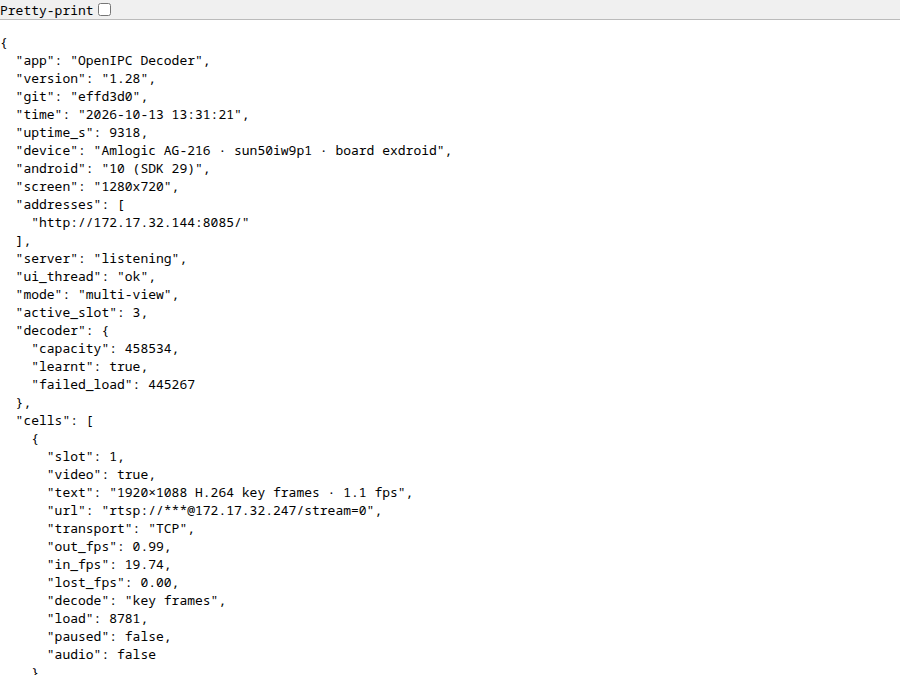
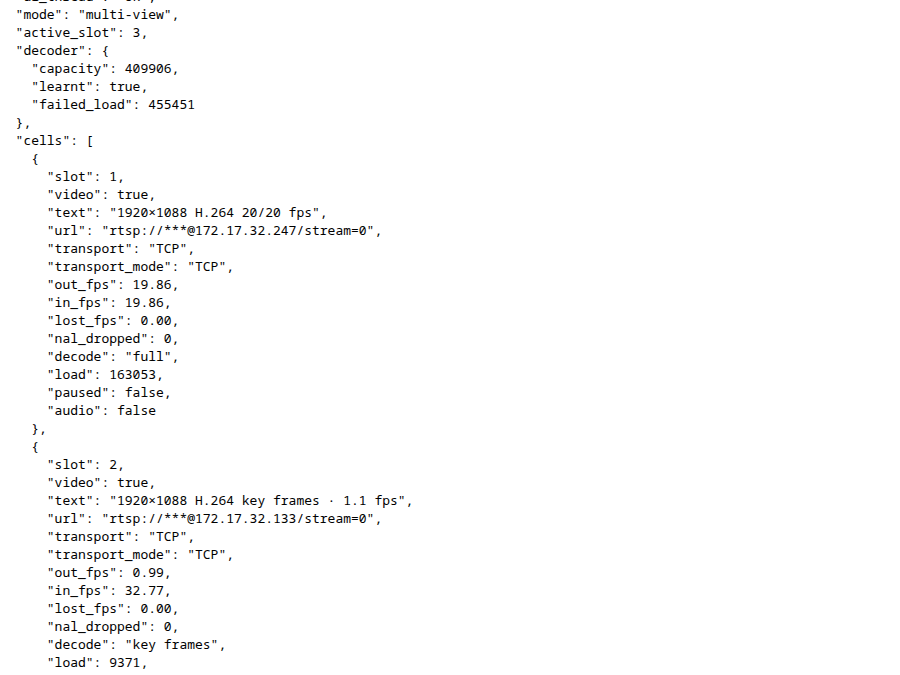
docs: fresh screenshots (single view with the transport line, debug page with TCP (auto) and UDP push, JSON with the new fields); README features, limitations and classes; LABORATORY: sources, UDP findings, slot filling, log lines, #76 pitfalls

diff --git a/README.ru.md b/README.ru.md
@@ -30,9 +30,9 @@
 
 - **Видео:** воспроизведение RTSP, аппаратное декодирование H.264/H.265 через MediaCodec, MJPEG по RTSP (RTP/JPEG, в одиночном режиме), автоматическое восстановление декодера, картинка вписывается в экран любой формы
 - **Звук:** AAC (RFC 3640 `mpeg4-generic`, ADTS, MP4A-LATM), Opus, G.711 μ-law/A-law, L16 PCM (моно и стерео); в мультивиде — звук выбранной ячейки
-- **Режимы:** одна камера или мультивид (Quad) — до 8 камер на одном экране, сеткой 2×2 или 3×3
+- **Режимы:** одна камера или мультивид (Quad) — до 8 камер и ячейка U (камера, которая сама шлёт RTP) сеткой 2×2 или 3×3; адаптивное декодирование (все кадры или только ключевые для каждой ячейки, предел определяется на устройстве); слайды (S): все камеры только на ключевых кадрах
 - **Управление:** масштаб двумя пальцами, перемещение, сброс двойным касанием, пульт Android TV (Leanback)
-- **Сеть:** RTSP поверх TCP или UDP (Auto переходит на TCP), RTSP multicast, приём RTP, который камера сама шлёт по UDP (unicast или multicast), авторизация Basic и Digest, RTSP keepalive, автоматическое переподключение с растущей задержкой, индикатор качества связи
+- **Сеть:** RTSP поверх TCP или UDP (Auto, режим по умолчанию, переходит на TCP, если UDP отклонён, видео не приходит или ключевые кадры теряются), фактический транспорт показывается при подключении, RTSP multicast, приём RTP, который камера сама шлёт по UDP (unicast или multicast), авторизация Basic и Digest, RTSP keepalive, автоматическое переподключение с растущей задержкой, индикатор качества связи
 - **WebUI:** встроенный браузер для веб-интерфейса камеры
 - **Прочее:** 8 слотов для камер, адреса хранятся в зашифрованном виде, скриншот долгим нажатием, приём ссылок из других приложений
 
@@ -105,6 +105,10 @@ adb shell am start -a android.intent.action.SEND -t text/plain \
 
 Фактический транспорт показывается при запуске потока в одиночном режиме (`Connected • UDP • H.265 …`), на отладочной странице и в `/stats.json` (`transport`; настройка слота — `transport_mode`). После отката там будет, например, `TCP (auto)`.
 
+<p align="center">
+  <img src="screenshots/single_status.jpg" alt="Одиночный режим сразу после подключения: транспорт, кодеки и битрейт" width="640">
+</p>
+
 ### Слоты UDP (Majestic outgoing)
 
 Слот может принимать и RTP, который камера отправляет сама, без RTSP. Для этого вместо `rtsp://` укажите адрес `udp://`:
@@ -152,6 +156,8 @@ outgoing:
 >
 > - **RTSP multicast требует Android 8.0+** и сервера, который его поддерживает; камеры OpenIPC его не поддерживают — [#69](https://github.com/OpenIPC/decoder/issues/69)
 > - **Не поддерживаются звук G.726 и MP4A-LATM с конфигурацией внутри потока (`cpresent=1`).** OpenIPC Majestic их не использует, а камеры с G.726 обычно умеют отдавать G.711 или AAC — [#14](https://github.com/OpenIPC/decoder/issues/14)
+> - **MJPEG воспроизводится только в одиночном режиме и декодируется программно**; аппаратное декодирование и мультивид — [#132](https://github.com/OpenIPC/decoder/issues/132)
+> - **Переключение между мультивидом и одиночным режимом может на несколько секунд заморозить картинку** на некоторых ТВ-приставках (замечено на AG-216) — [#76](https://github.com/OpenIPC/decoder/issues/76)
 > - **Логин и пароль передаются в открытом виде** по RTSP/HTTP без шифрования (Basic, если камера не запросила Digest); RTSPS не поддерживается и не планируется — [#16](https://github.com/OpenIPC/decoder/issues/16)
 >
 > Известные ошибки собраны отдельно, под [меткой `bug`](https://github.com/OpenIPC/decoder/issues?q=is%3Aissue+is%3Aopen+label%3Abug).
@@ -199,6 +205,8 @@ export KEY_PASS=your_key_password
 | `Transport`, `UdpReceiver`, `RtpReorder` | Согласование транспорта; приём по UDP и multicast с фильтром отправителя; восстановление порядка пакетов                                   |
 | `RtpListener`                            | Слоты `udp://`: RTP, который камера отправляет сама                                                                                        |
 | `NalAssembler`                           | Сборка NAL-блоков H.264/H.265 из RTP-пакетов, отбрасывание блоков, повреждённых потерями                                                   |
+| `JpegAssembler`                          | MJPEG: сборка целых JPEG-кадров из RTP/JPEG (RFC 2435)                                                                                     |
+| `DecodePlanner`                          | Мультивид: какие ячейки декодируют все кадры, а какие только ключевые, в пределах выученной ёмкости декодера                              |
 | `MediaCodecManager`, `DecoderRetry`      | Жизненный цикл аппаратного видеодекодера и восстановление после ошибок                                                                     |
 | `AudioManager`, `AudioConfig`            | Звук: преобразование G.711/L16, декодирование AAC/Opus, вывод через AudioTrack                                                             |
 | `QuadCell`                               | Одна ячейка мультивида: своя сессия, декодер и звук по выбору                                                                              |
@@ -206,7 +214,7 @@ export KEY_PASS=your_key_password
 | `CredentialStore`, `KeystoreCipher`      | Зашифрованное хранение адресов камер (Android Keystore)                                                                                    |
 | `FramePool`, `Frame`                     | Пул буферов, снижает нагрузку на сборщик мусора                                                                                            |
 | `App`, `Crash`                           | Обработчик необработанных исключений и экран отчёта о сбое                                                                                 |
-| `DebugServer`, `NetInfo`                 | Отладочная страница на порту 8085 (только локальная сеть), адреса устройства                                                               |
+| `DebugServer`, `NetInfo`, `Snapshots`    | Отладочная страница на порту 8085 (только локальная сеть), адреса устройства, снимки экрана                                                |
 
 Сеть, декодирование видео и звук работают в отдельных потоках, поэтому медленный декодер не блокирует сокет.
 

diff --git a/LABORATORY.md b/LABORATORY.md
@@ -126,7 +126,15 @@ Only for filling grid cells (Quad 2×2, 3×3) and screenshots; not used in strea
 | 7 | `.167` |
 | 8 | `.53` (XM, bottom right) |
 
-The ninth cell is the U cell (pushed UDP RTP, #87). `.165` is repaired and available as a spare filler for any slot.
+The ninth cell is the U cell (pushed UDP RTP, #87). Its source on the bench: `.165` pushes its main stream with Majestic `outgoing` to `udp://172.17.32.144:5600` (Aceline-1); `.165` is also a spare filler for any slot.
+
+### Other sources
+
+| What | Where | Notes |
+|---|---|---|
+| MJPEG over RTSP (#119) | `rtsp://<.133>/stream=2` | RTP/JPEG PT 26, type 0 (4:2:2), Q = 255 (tables in-band), 1280×720, 5 fps, ≈ 5 Mbit/s, plus Opus |
+| HTTP MJPEG (#121) | `http://<.133>/mjpeg` | `multipart/x-mixed-replace; boundary=boundarydonotcross`, Basic auth |
+| Pushed RTP | `.165` → Aceline-1 `:5600` | the U cell; check with `curl -u … http://172.17.32.165/api/v1/outgoing.json` (`state: live`) |
 
 ## What the servers support
 
@@ -144,6 +152,10 @@ Checked with raw RTSP `SETUP` requests (2026-10-12).
 No camera in the lab does RTSP multicast. To test #69 for real, run a multicast-capable RTSP server on the lab host (e.g. mediamtx relaying `.133`).
 
 Multicast from OpenIPC is only available as plain RTP via Majestic `outgoing` (`udp://<group>:<port>`), see #68.
+
+### RTP over UDP from the lab cameras
+
+Measured on the lab host (8 s of RTSP-over-UDP video each, #113): the cameras send the packets **heavily reordered** (up to ~42 positions, p99 34 — the app's reorder buffer handles that), and `.126` also **loses** about 1.5 packets/s on the way (`.133`: almost none). A 1080p key frame is a few hundred packets, so over UDP key frames often arrive with a hole and are dropped whole: on key frames only (multi-view) such a cell shows nothing. Auto then falls back to TCP (#125, #128); pushed streams (`udp://`, the U cell) cannot (#133). Over TCP nothing is lost. The AG-216 caps the socket receive buffer at 256 KiB (`rmem_max`), which is not the cause.
 
 ### SDP
 
@@ -210,7 +222,8 @@ The link goes into the active slot and is saved. The transport extra exists from
 
 - Transport in the UI: menu → URL dialog of the slot → **TCP / UDP / Auto / Multicast** under the URL.
 - udp:// slots (#72) are a URL, not a transport: `udp://@:5600`, `udp://@239.1.2.3:5600`, `udp://<camera ip>@239.1.2.3:5600`, optional `?codec=h265&pt=97`.
-- Filling slots on the box by hand: menu (OK or tap a cell) → slot button N (`x=30+34·N, y=33` at 1280×720) → share intent with the URL → menu → Q.
+- The share intent writes into the **active** slot (and switches to the single view): select the slot first.
+- Filling slots on the box: tap a menu button by its text rather than by coordinates (the row is `1 2 3 4 5 6 7 8 U D Q S`): `uiautomator dump`, take the `bounds` of `text="N"`, `input tap` its centre; the URL dialog of a slot: **Settings** (single view only) → `TCP` / `UDP` / `Auto` / `Multicast` → `SAVE`.
 
 ## Methods
 
@@ -255,6 +268,8 @@ The script uninstalls first. To test an upgrade that keeps the settings, use `$A
 | UDP socket leak | `$ADB shell cat /proc/$(pidof com.openipc.decoder)/net/udp`, count lines before and after |
 | CPU per thread | `$ADB shell top -H -p <pid>` (a spinning `rtsp-audio` thread was found this way) |
 | Screen off / on | `input keyevent KEYCODE_SLEEP` / `KEYCODE_WAKEUP` |
+| Grid ↔ single stress (#76) | loop: menu → tap `4` (grid → single), 4 s, menu → tap `Q` (single → grid), 8 s; afterwards count `Davey! duration=` ≥ 1000 ms and `ANR in` in logcat; 8–10 cycles reproduce #76 today |
+| Transport in use | `/stats.json`: `transport` (in use, e.g. `TCP (auto)` after a fallback) and `transport_mode` (setting) per cell; `nal_dropped` = NAL units lost to packet loss |
 | Menu with a remote (#91) | `input keyevent KEYCODE_DPAD_CENTER` opens the menu with the focus on the active item (slot, Q or U); `DPAD_RIGHT` ×n, `DPAD_DOWN` (Exit), `DPAD_UP`, then `DPAD_CENTER` must switch to that slot; `KEYCODE_BACK` closes it. The focused item: `uiautomator dump /sdcard/m.xml` and look for `focused="true"`. Check in single view and multi-view |
 | 4:3 screen | `wm size 960x720`, back with `wm size reset` |
 | Audio playback (sound cannot be heard remotely) | `dumpsys media.audio_flinger`: server position of the app's track; frames/s ≈ sample rate, no underruns |
@@ -276,6 +291,11 @@ The script uninstalls first. To test an upgrade that keeps the settings, use `$A
 | `joined 239.x.x.x:port` | RTSP multicast group joined |
 | `UDP channel …: N packets lost, M late or duplicate` | reorder stats when a session ends |
 | `UDP from an unexpected sender ignored` | sender filter |
+| `…: packets but no decoded frame for 8 s (N NAL units lost) over UDP, using TCP` | Auto: UDP delivered, but nothing decodable (#125) |
+| `audio SETUP over UDP failed (…), using TCP`, `audio not over UDP like video, using TCP` | Auto: UDP audio not possible, both tracks over TCP (#128) |
+| `NAL unit dropped (…): packet loss inside a fragmented NAL unit` | a NAL unit with a lost packet (logged 1st–3rd, then every 100th) |
+| `Video pt 26 MJPEG`, `JPEG frame dropped (…)` | MJPEG stream (#119) / a JPEG frame with a lost packet |
+| `Decoder capacity of this device: … blocks/s, failed at …` | multi-view planner learnt a new capacity (#85, #126) |
 
 ### Pitfalls
 
@@ -283,3 +303,5 @@ The script uninstalls first. To test an upgrade that keeps the settings, use `$A
 - Count `FATAL EXCEPTION` only; plain `AndroidRuntime` lines come from the `input` / `am` shell commands.
 - Mask the camera password in every log you post (the `mask` function in the smoke script).
 - The XM camera serves one RTSP client at a time: a session that is not torn down blocks the next connection.
+- Switching multi-view ↔ single view can freeze the window for 3–68 s on the AG-216 (#76, open): `Davey! … QueueBufferDuration=…` in logcat, sometimes an ANR. After many switches `media.codec` once hung in `D` state (load ~70) — reboot the box (`adb reboot`, ~25 s). Avoid needless switches in tests; start the app straight into the wanted mode (a cold start with the share intent opens the single view).
+- `/stats.json` `ui_thread: not responding within 1000 ms` means the UI thread is stuck — usually #76.

diff --git a/README.md b/README.md
@@ -30,9 +30,9 @@ A beta channel is available on [Google Play](https://play.google.com/apps/intern
 
 - **Video:** RTSP playback, hardware H.264/H.265 decoding via MediaCodec, MJPEG over RTSP (RTP/JPEG, single view), automatic decoder recovery, picture fitted to any screen shape
 - **Audio:** AAC (RFC 3640 `mpeg4-generic`, ADTS, MP4A-LATM), Opus, G.711 μ-law/A-law, L16 PCM (mono/stereo); in multi-view, the sound of the selected cell
-- **Display:** single camera, or multi-view (Quad) with up to 8 cameras at once in a 2×2 or 3×3 grid
+- **Display:** single camera, or multi-view (Quad) with up to 8 cameras plus the U cell (a camera that pushes RTP) in a 2×2 or 3×3 grid; adaptive decoding (full rate or key frames per cell, learnt per device); slides (S): every camera on key frames only
 - **Controls:** pinch-to-zoom, pan, double-tap to reset, Android TV remote (Leanback launcher)
-- **Network:** RTSP over TCP or UDP (Auto falls back to TCP), RTSP multicast, plain RTP pushed over UDP by the camera (unicast or multicast), Basic and Digest authentication, RTSP keepalive, automatic reconnection with exponential back-off, connection-quality indicator
+- **Network:** RTSP over TCP or UDP (Auto, the default, falls back to TCP when UDP is refused, brings no video or keeps losing key frames), the transport in use shown on connect, RTSP multicast, plain RTP pushed over UDP by the camera (unicast or multicast), Basic and Digest authentication, RTSP keepalive, automatic reconnection with exponential back-off, connection-quality indicator
 - **WebUI:** built-in browser for the camera's web interface
 - **More:** 8 camera slots, URLs stored encrypted, long-press screenshot, URLs can be shared from other apps
 
@@ -105,6 +105,10 @@ Each slot has its own transport, chosen under the URL in **Settings** (or with t
 
 The transport actually in use is shown when a stream starts in single view (`Connected • UDP • H.265 …`), on the debug page and in `/stats.json` (`transport`; the slot's setting is `transport_mode`). After a fallback it reads, for example, `TCP (auto)`.
 
+<p align="center">
+  <img src="screenshots/single_status.jpg" alt="Single view right after connecting: transport, codecs and bitrate" width="640">
+</p>
+
 ### UDP slots (Majestic outgoing)
 
 A slot can also receive RTP that the camera pushes by itself, without RTSP. Put a `udp://` URL into the slot instead of `rtsp://`:
@@ -152,6 +156,8 @@ Only clients on the local network are answered (loopback, 10/8, 172.16/12, 192.1
 >
 > - **RTSP multicast needs Android 8.0+** and a server that offers it; OpenIPC cameras do not — [#69](https://github.com/OpenIPC/decoder/issues/69)
 > - **G.726 audio and MP4A-LATM with in-band configuration (`cpresent=1`) are not supported.** OpenIPC Majestic does not use them, and cameras that offer G.726 can usually send G.711 or AAC instead — [#14](https://github.com/OpenIPC/decoder/issues/14)
+> - **MJPEG plays in the single view only and is decoded in software**; hardware decoding and multi-view — [#132](https://github.com/OpenIPC/decoder/issues/132)
+> - **Switching between multi-view and the single view can freeze the picture for seconds** on some TV boxes (seen on the AG-216) — [#76](https://github.com/OpenIPC/decoder/issues/76)
 > - **Credentials are sent in clear text** over plain RTSP/HTTP (Basic auth unless the camera asks for Digest); RTSPS is not supported and not planned — [#16](https://github.com/OpenIPC/decoder/issues/16)
 >
 > Known bugs are tracked separately under the [`bug` label](https://github.com/OpenIPC/decoder/issues?q=is%3Aissue+is%3Aopen+label%3Abug).
@@ -199,6 +205,8 @@ Debug and release builds are signed with different keys. To switch from one to t
 | `Transport`, `UdpReceiver`, `RtpReorder` | Transport negotiation; UDP and multicast receive with a sender filter; packet reordering                          |
 | `RtpListener`                            | `udp://` slots: plain RTP pushed by the camera                                                                    |
 | `NalAssembler`                           | Rebuilds H.264/H.265 NAL units from RTP packets, drops units damaged by packet loss                               |
+| `JpegAssembler`                          | MJPEG: rebuilds whole JPEG frames from RTP/JPEG (RFC 2435)                                                        |
+| `DecodePlanner`                          | Multi-view: which cells decode every frame and which only key frames, within the learnt decoder capacity          |
 | `MediaCodecManager`, `DecoderRetry`      | Hardware video decoder lifecycle and recovery after decoder errors                                                |
 | `AudioManager`, `AudioConfig`            | Audio pipeline: G.711/L16 conversion, AAC/Opus decoding, AudioTrack playback                                      |
 | `QuadCell`                               | One multi-view cell: its own session, decoder and optional audio                                                  |
@@ -206,7 +214,7 @@ Debug and release builds are signed with different keys. To switch from one to t
 | `CredentialStore`, `KeystoreCipher`      | Encrypted storage of camera URLs (Android Keystore)                                                               |
 | `FramePool`, `Frame`                     | Buffer pool that reduces garbage-collector load                                                                   |
 | `App`, `Crash`                           | Uncaught-exception handler and crash report screen                                                                |
-| `DebugServer`, `NetInfo`                 | Debug page on port 8085 (LAN clients only), device addresses                                                      |
+| `DebugServer`, `NetInfo`, `Snapshots`    | Debug page on port 8085 (LAN clients only), device addresses, snapshots of the screen                             |
 
 Network, video decoding and audio run on separate threads, so a slow decoder never blocks the socket.
 

diff --git a/README.zh-CN.md b/README.zh-CN.md
@@ -30,9 +30,9 @@
 
 - **视频：** RTSP 播放，通过 MediaCodec 进行 H.264/H.265 硬件解码，支持 RTSP 上的 MJPEG（RTP/JPEG，仅单画面），解码器出错后自动恢复，画面适配任意屏幕比例
 - **音频：** AAC（RFC 3640 `mpeg4-generic`、ADTS、MP4A-LATM）、Opus、G.711 μ-law/A-law、L16 PCM（单声道/立体声）；多画面模式下播放所选画面的声音
-- **显示：** 单路画面，或多画面模式（Quad），以 2×2 或 3×3 网格最多同时显示 8 路摄像机
+- **显示：** 单路画面，或多画面模式（Quad），以 2×2 或 3×3 网格最多显示 8 路摄像机外加 U 画面（主动推送 RTP 的摄像机）；自适应解码（每个画面全帧率或仅关键帧，上限按设备实测）；幻灯片（S）：所有摄像机仅解码关键帧
 - **操作：** 双指缩放、拖动平移、双击复位，支持 Android TV 遥控器（Leanback 启动器）
-- **网络：** RTSP over TCP 或 UDP（Auto 模式可回退到 TCP）、RTSP 组播、接收摄像机通过 UDP 主动推送的 RTP（单播或组播），支持 Basic 和 Digest 认证、RTSP 保活，断线后自动重连（指数退避），连接质量指示
+- **网络：** RTSP over TCP 或 UDP（默认 Auto：UDP 被拒绝、无视频或关键帧持续丢失时回退到 TCP），连接时显示实际使用的传输方式、RTSP 组播、接收摄像机通过 UDP 主动推送的 RTP（单播或组播），支持 Basic 和 Digest 认证、RTSP 保活，断线后自动重连（指数退避），连接质量指示
 - **WebUI：** 内置浏览器，可打开摄像机的网页管理界面
 - **其他：** 8 个摄像机槽位，地址加密保存，长按截图，可接收其他应用分享的地址
 
@@ -105,6 +105,10 @@ adb shell am start -a android.intent.action.SEND -t text/plain \
 
 实际使用的传输方式会在单画面模式开始播放时显示（`Connected • UDP • H.265 …`），也会显示在调试页面和 `/stats.json` 中（`transport`；槽位的设置为 `transport_mode`）。回退后会显示为例如 `TCP (auto)`。
 
+<p align="center">
+  <img src="screenshots/single_status.jpg" alt="单画面刚连接时：传输方式、编码和码率" width="640">
+</p>
+
 ### UDP 槽位 (Majestic outgoing)
 
 槽位也可以接收摄像机不经 RTSP 主动推送的 RTP。为此请填写 `udp://` 地址代替 `rtsp://`：
@@ -152,6 +156,8 @@ outgoing:
 >
 > - **RTSP 组播需要 Android 8.0+**，且服务器须支持；OpenIPC 摄像机不支持 — [#69](https://github.com/OpenIPC/decoder/issues/69)
 > - **不支持 G.726 音频，也不支持流内配置的 MP4A-LATM（`cpresent=1`）。** OpenIPC Majestic 不使用这些格式，支持 G.726 的摄像机通常也能输出 G.711 或 AAC — [#14](https://github.com/OpenIPC/decoder/issues/14)
+> - **MJPEG 仅支持单画面且为软件解码**；硬件解码和多画面见 [#132](https://github.com/OpenIPC/decoder/issues/132)
+> - **在多画面与单画面之间切换时，部分电视盒子（如 AG-216）的画面可能会冻结数秒** — [#76](https://github.com/OpenIPC/decoder/issues/76)
 > - **用户名和密码以明文传输**（未加密的 RTSP/HTTP；摄像机未要求 Digest 时发送 Basic），不支持 RTSPS，也不计划支持 — [#16](https://github.com/OpenIPC/decoder/issues/16)
 >
 > 已知的程序错误另行收录在 [`bug` 标签](https://github.com/OpenIPC/decoder/issues?q=is%3Aissue+is%3Aopen+label%3Abug)下。
@@ -199,6 +205,8 @@ export KEY_PASS=your_key_password
 | `Transport`、`UdpReceiver`、`RtpReorder` | 传输方式协商；带发送端过滤的 UDP 与组播接收；数据包重排序                 |
 | `RtpListener`                            | `udp://` 槽位：接收摄像机主动推送的 RTP                                   |
 | `NalAssembler`                           | 将 RTP 包重组为 H.264/H.265 NAL 单元，丢弃因丢包而损坏的单元              |
+| `JpegAssembler`                          | MJPEG：由 RTP/JPEG（RFC 2435）重组完整的 JPEG 帧                          |
+| `DecodePlanner`                          | 多画面：在解码器实测能力内决定哪些画面全帧率、哪些仅解码关键帧            |
 | `MediaCodecManager`、`DecoderRetry`      | 硬件视频解码器的生命周期管理与出错后的恢复                                |
 | `AudioManager`、`AudioConfig`            | 音频处理：G.711/L16 转换、AAC/Opus 解码、通过 AudioTrack 播放             |
 | `QuadCell`                               | 多画面中的单个画面：独立的会话、解码器和可选音频                          |
@@ -206,7 +214,7 @@ export KEY_PASS=your_key_password
 | `CredentialStore`、`KeystoreCipher`      | 摄像机地址加密存储（Android Keystore）                                    |
 | `FramePool`、`Frame`                     | 缓冲区池，减轻垃圾回收压力                                                |
 | `App`、`Crash`                           | 未捕获异常处理与崩溃报告界面                                              |
-| `DebugServer`、`NetInfo`                 | 8085 端口调试页面（仅本地网络）、设备地址                                     |
+| `DebugServer`、`NetInfo`、`Snapshots`    | 8085 端口调试页面（仅本地网络）、设备地址、屏幕快照                           |
 
 网络、视频解码和音频分别运行在独立线程中，解码器较慢时也不会阻塞网络读取。
 
